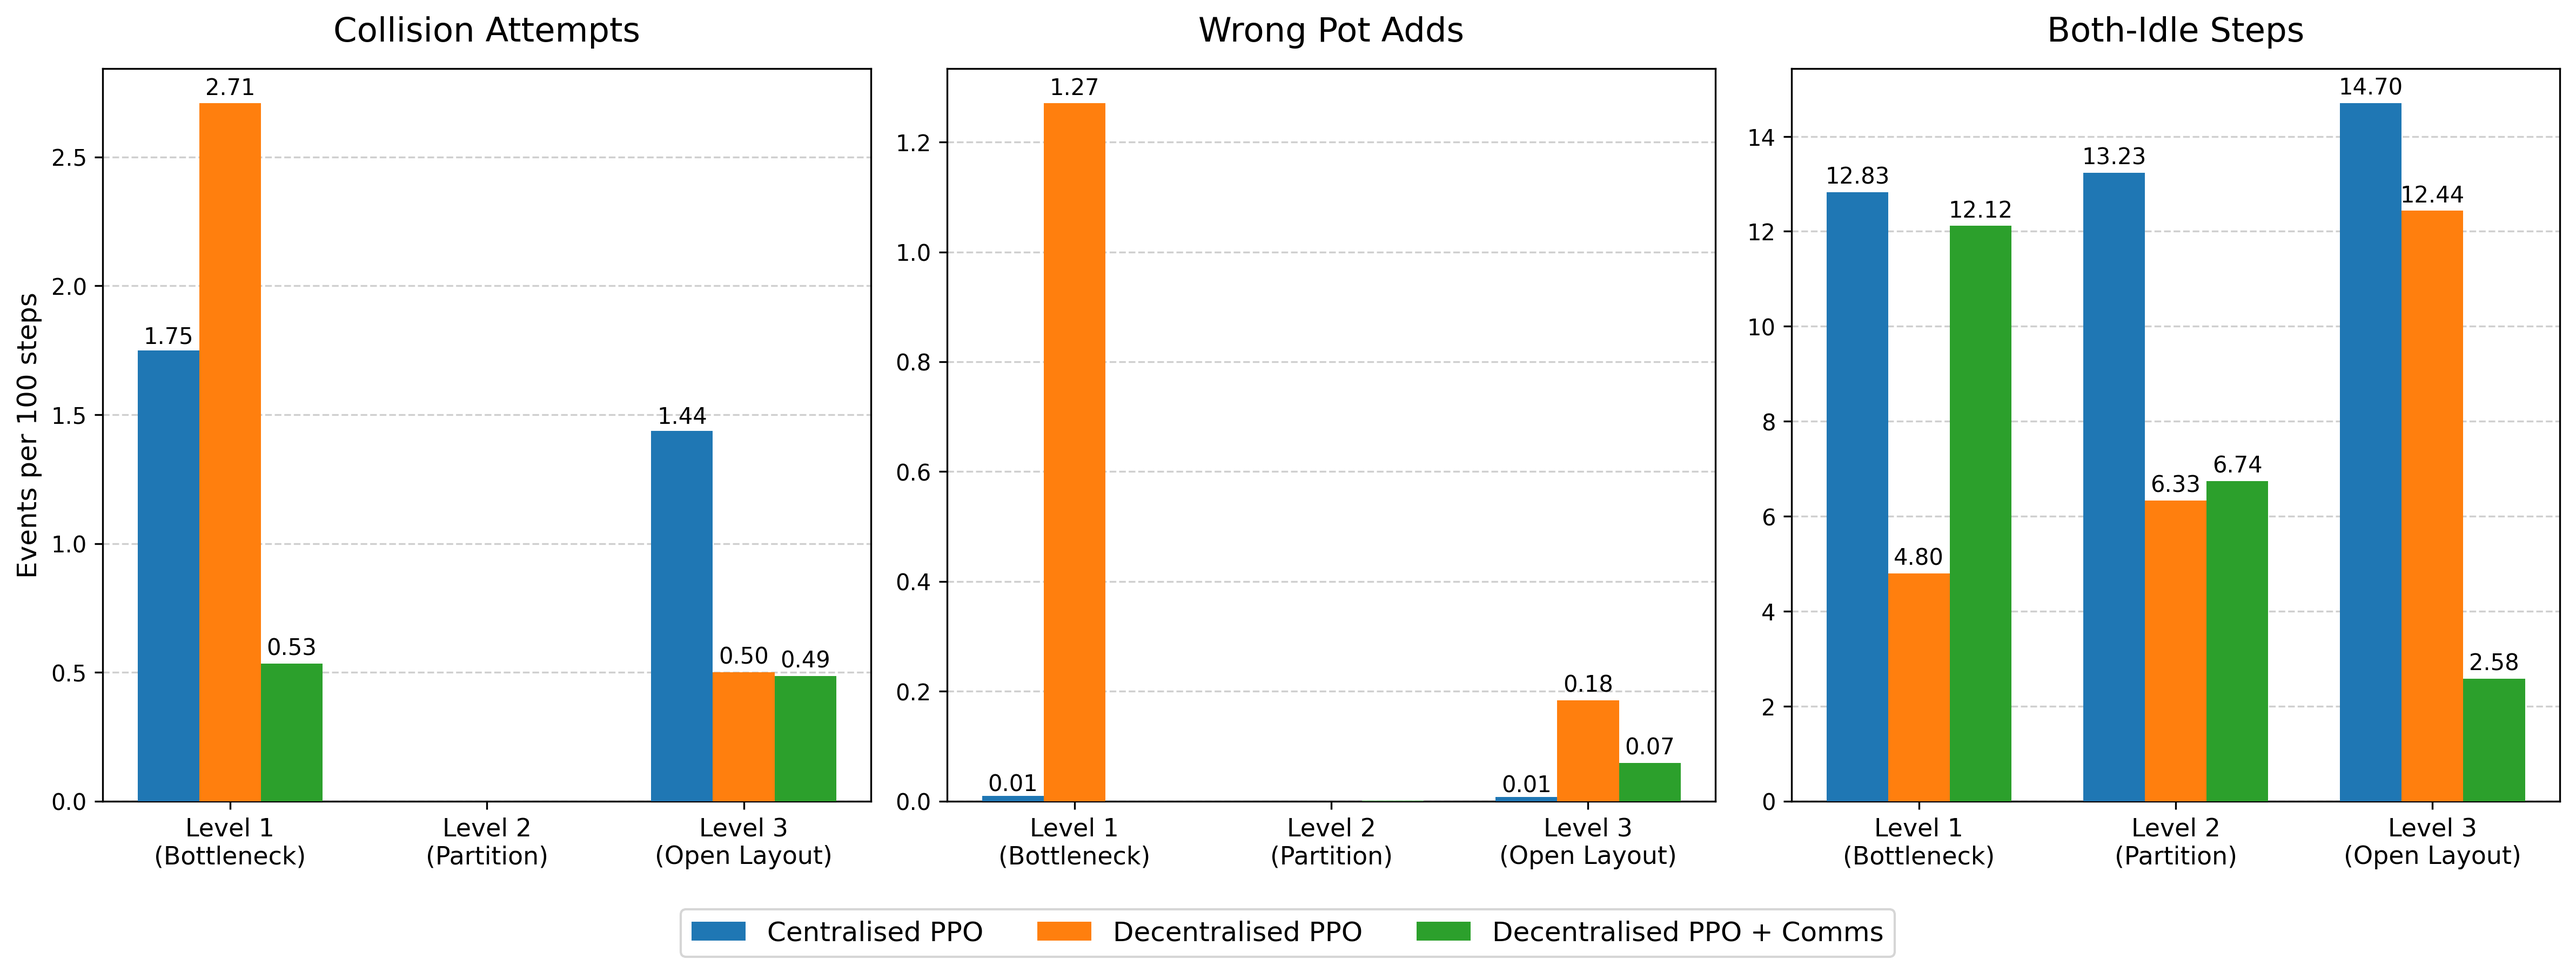
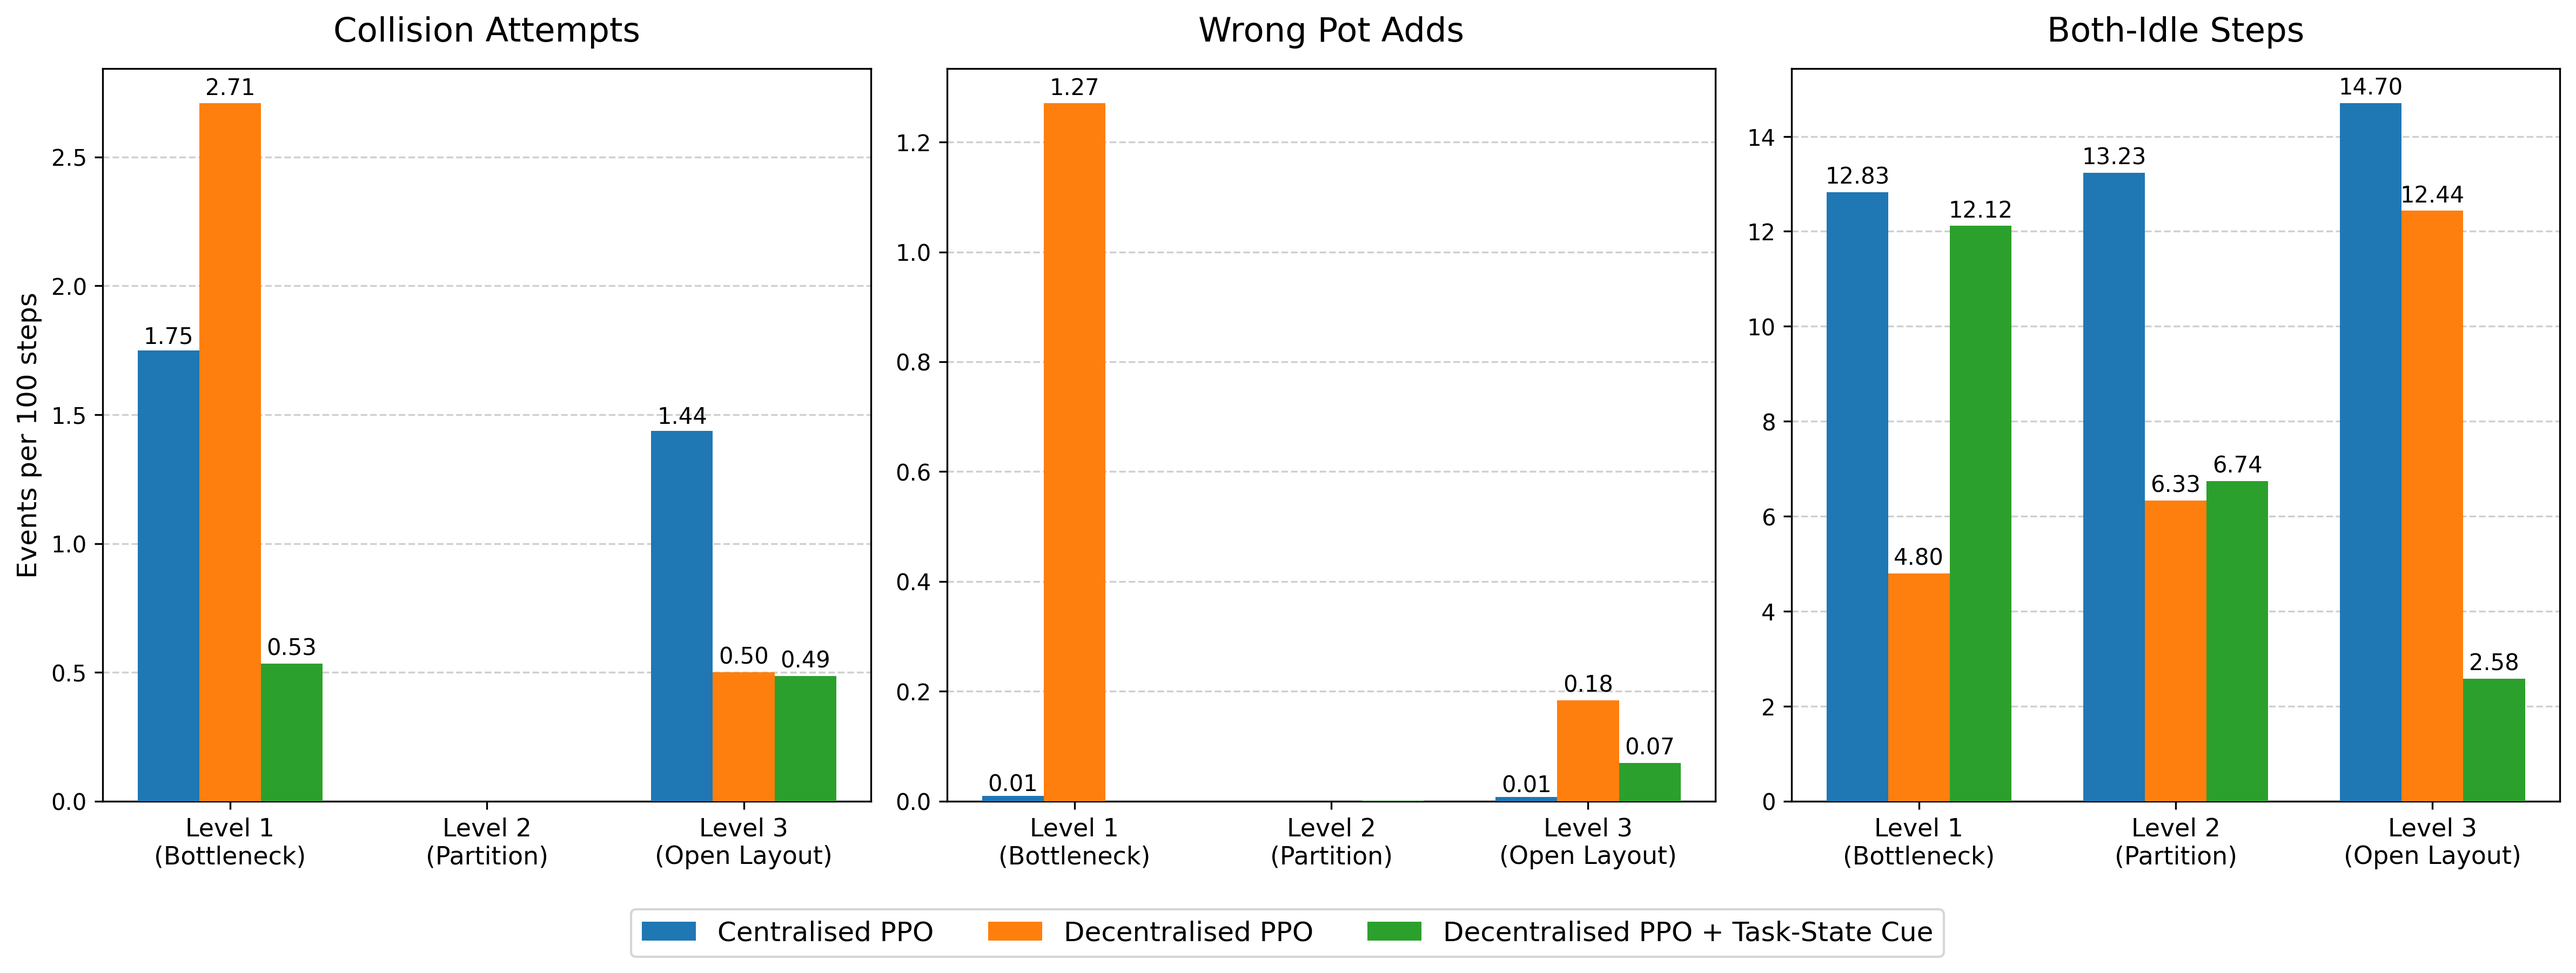
Refactor terminology from "communication" to "task-state cue" in benchmark, README, and analytics scripts

Changed region(s): [[0.25, 0.9323, 0.75, 0.9945]]

diff --git a/scripts/generate_sparse_table.py b/scripts/generate_sparse_table.py
@@ -25,7 +25,7 @@ def get_sparse_error_percentage(model, level, metric):
 
 if __name__ == "__main__":
     models = ["centralised", "decentralised", "decentralised_comms"]
-    model_labels = ["Centralised PPO", "Decentralised PPO", "Decentralised PPO + Comms"]
+    model_labels = ["Centralised PPO", "Decentralised PPO", "Decentralised PPO + Task-State Cue"]
     
     levels = [1, 2, 3]
     level_names = ["Level 1 (Bottleneck)", "Level 2 (Partition)", "Level 3 (Open Layout)"]

diff --git a/scripts/plot_perfect_rate.py b/scripts/plot_perfect_rate.py
@@ -20,7 +20,7 @@ def load_sweep_data(model, level, steps, metric):
 
 if __name__ == "__main__":
     models = ["centralised", "decentralised", "decentralised_comms"]
-    model_labels = ["Centralised PPO", "Decentralised PPO", "Decentralised PPO + Comms"]
+    model_labels = ["Centralised PPO", "Decentralised PPO", "Decentralised PPO + Task-State Cue"]
     levels = [1, 2, 3]
     level_names = ["(Bottleneck)", "(Partition)", "(Open Layout)"]
     

diff --git a/scripts/plot_score_mean.py b/scripts/plot_score_mean.py
@@ -20,7 +20,7 @@ def load_sweep_data(model, level, steps, metric):
 
 if __name__ == "__main__":
     models = ["centralised", "decentralised", "decentralised_comms"]
-    model_labels = ["Centralised PPO", "Decentralised PPO", "Decentralised PPO + Comms"]
+    model_labels = ["Centralised PPO", "Decentralised PPO", "Decentralised PPO + Task-State Cue"]
     levels = [1, 2, 3]
     level_names = ["(Bottleneck)", "(Partition)", "(Open Layout)"]
     

diff --git a/scripts/plot_behaviour_bars.py b/scripts/plot_behaviour_bars.py
@@ -29,7 +29,7 @@ def get_behaviour_rates(model, level):
 
 if __name__ == "__main__":
     models = ["centralised", "decentralised", "decentralised_comms"]
-    model_labels = ["Centralised PPO", "Decentralised PPO", "Decentralised PPO + Comms"]
+    model_labels = ["Centralised PPO", "Decentralised PPO", "Decentralised PPO + Task-State Cue"]
     colors = ['#1f77b4', '#ff7f0e', '#2ca02c']
     
     levels = [1, 2, 3]

diff --git a/scripts/plot_role_split_by_level.py b/scripts/plot_role_split_by_level.py
@@ -46,7 +46,7 @@ def extract_a1_shares(summary):
 
 if __name__ == "__main__":
     models = ["centralised", "decentralised", "decentralised_comms"]
-    model_labels = ["Centralised PPO", "Decentralised PPO", "Decentralised PPO + Comms"]
+    model_labels = ["Centralised PPO", "Decentralised PPO", "Decentralised PPO + Task-State Cue"]
     colors = ["#1f77b4", "#ff7f0e", "#2ca02c"]
 
     levels = [1, 2, 3]

diff --git a/BENCHMARK.md b/BENCHMARK.md
@@ -15,11 +15,11 @@ The project compares three PPO-based multi-agent setups in the same two-agent co
    - Shared team reward.
    - Each agent sees its own local / embodied features plus shared public task-state features.
    - Teammate-private action-ready information is masked out.
-   - This is the strict no-comms baseline.
+   - This is the strict no-cue baseline.
 
 2. **Decentralised PPO + lightweight teammate task-state cue**
    - Same decentralised setup as above: still two separate policies and still decentralised at execution.
-   - Same `Discrete(6)` action space as the no-comms baseline.
+   - Same `Discrete(6)` action space as the no-cue baseline.
    - The only intentional extra information is a small 4-slot teammate task-state signal.
    - That signal says whether the teammate is currently holding:
      - an onion
@@ -62,8 +62,8 @@ The intended differences are:
   - Decentralised PPO uses two separate policies (`agent_1_policy`, `agent_2_policy`).
   - Decentralised PPO + teammate task-state cue also uses two separate policies.
 
-- **Communication**
-  - The no-comms baseline masks the communication block.
+- **Task-state cue**
+  - The no-cue baseline masks the teammate task-state block.
   - The task-state cue variant exposes only a 4-slot teammate holding summary.
   - It does **not** expose teammate position, direction, front-tile features, BFS distances, or a full second local view.
 
@@ -187,13 +187,13 @@ Masked features:
 
 Masked values use a sentinel `-1.0` so the shape stays aligned with the centralised baseline without leaking teammate-private information.
 
-This means the no-comms baseline is not fully blind, but it is still properly decentralised at execution. It gets public task-state information, not the other agent's local action-ready state.
+This means the no-cue baseline is not fully blind, but it is still properly decentralised at execution. It gets public task-state information, not the other agent's local action-ready state.
 
 ### 4.3 Decentralised PPO + lightweight teammate task-state cue
 
 In the task-state cue wrapper (`environment/gym_wrapper_rllib_decentralised_comms.py`), the overall 74-slot shape is still kept exactly the same.
 
-The live blocks are the same as the no-comms decentralised baseline **except** for the final 4-slot comparison block.
+The live blocks are the same as the no-cue decentralised baseline **except** for the final 4-slot comparison block.
 
 Instead of being masked, those final 4 slots are filled with a coarse teammate task-state signal:
 
@@ -211,7 +211,7 @@ Important constraints:
 - the agents still act independently with separate policies
 - there is no extra message action head
 
-So the comms variant is still decentralised, but it adds a small, dense coordination signal about what the teammate is currently carrying.
+So the task-state cue variant is still decentralised, but it adds a small, dense coordination signal about what the teammate is currently carrying.
 
 ### Action spaces
 
@@ -320,7 +320,7 @@ The final benchmark uses RLlib PPO for all official runs.
 - one joint policy controlling both agents
 - total training budget: **10M env steps**
 
-### Decentralised PPO (no comms)
+### Decentralised PPO (no cue)
 
 - wrapper: `environment/gym_wrapper_rllib_decentralised.py`
 - script: `agents/train_decentralised_rllib.py`
@@ -410,7 +410,7 @@ Centralised ordering:
 
 **level_3 < level_1 < level_2**
 
-### 8.2 Pure decentralised PPO (no comms)
+### 8.2 Pure decentralised PPO (no cue)
 
 Chosen checkpoints and final 2500-episode deterministic results:
 

diff --git a/analytics/sparse_error_incidence_table.md b/analytics/sparse_error_incidence_table.md
@@ -1,11 +1,11 @@
-| Level                 | Algorithm                 | Wrong Serve   | Wrong Done-Soup Pickup   | Burnt Soup Pickup   |
-|:----------------------|:--------------------------|:--------------|:-------------------------|:--------------------|
-| Level 1 (Bottleneck)  | Centralised PPO           | 0.0%          | 0.0%                     | 0.0%                |
-| Level 1 (Bottleneck)  | Decentralised PPO         | 2.9%          | 0.6%                     | 0.0%                |
+| Level                 | Algorithm                          | Wrong Serve   | Wrong Done-Soup Pickup   | Burnt Soup Pickup   |
+|:----------------------|:-----------------------------------|:--------------|:-------------------------|:--------------------|
+| Level 1 (Bottleneck)  | Centralised PPO                    | 0.0%          | 0.0%                     | 0.0%                |
+| Level 1 (Bottleneck)  | Decentralised PPO                  | 2.9%          | 0.6%                     | 0.0%                |
 | Level 1 (Bottleneck)  | Decentralised PPO + Task-State Cue | 0.0%          | 0.0%                     | 0.1%                |
-| Level 2 (Partition)   | Centralised PPO           | 0.0%          | 0.0%                     | 0.0%                |
-| Level 2 (Partition)   | Decentralised PPO         | 2.6%          | 0.0%                     | 0.0%                |
+| Level 2 (Partition)   | Centralised PPO                    | 0.0%          | 0.0%                     | 0.0%                |
+| Level 2 (Partition)   | Decentralised PPO                  | 2.6%          | 0.0%                     | 0.0%                |
 | Level 2 (Partition)   | Decentralised PPO + Task-State Cue | 4.0%          | 0.3%                     | 2.9%                |
-| Level 3 (Open Layout) | Centralised PPO           | 5.6%          | 5.6%                     | 1.7%                |
-| Level 3 (Open Layout) | Decentralised PPO         | 1.2%          | 1.8%                     | 0.9%                |
+| Level 3 (Open Layout) | Centralised PPO                    | 5.6%          | 5.6%                     | 1.7%                |
+| Level 3 (Open Layout) | Decentralised PPO                  | 1.2%          | 1.8%                     | 0.9%                |
 | Level 3 (Open Layout) | Decentralised PPO + Task-State Cue | 0.5%          | 0.5%                     | 5.4%                |

diff --git a/README.md b/README.md
@@ -104,7 +104,7 @@ The main folders are:
 
 - `agents/`
   - `train_centralised_rllib.py` - RLlib training for the joint controller
-  - `train_decentralised_rllib.py` - RLlib training for the no-comms decentralised baseline
+  - `train_decentralised_rllib.py` - RLlib training for the no-cue decentralised baseline
   - `train_decentralised_comms_rllib.py` - RLlib training script for the decentralised task-state cue variant
 
 - `scripts/`
@@ -230,7 +230,7 @@ Those slots are masked out.
 
 The task-state cue wrapper keeps the same decentralised structure and the same overall observation size.
 
-The only intentional difference from the no-comms baseline is that the final 4-slot comparison block is no longer masked. Instead, it carries a coarse teammate task-state signal:
+The only intentional difference from the no-cue baseline is that the final 4-slot comparison block is no longer masked. Instead, it carries a coarse teammate task-state signal:
 
 - teammate holding onion
 - teammate holding tomato
@@ -272,7 +272,7 @@ The main difference between the scripts is the policy structure and wrapper, not
 python agents/train_centralised_rllib.py
 ```
 
-### Decentralised PPO (no comms)
+### Decentralised PPO (no cue)
 
 ```bash
 python agents/train_decentralised_rllib.py
